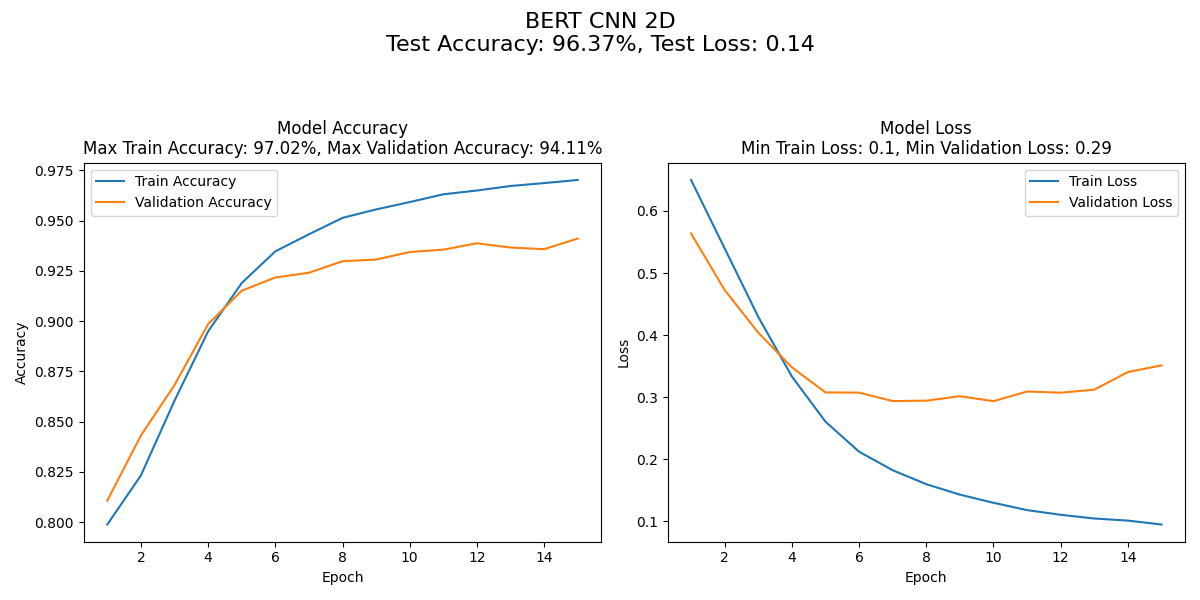
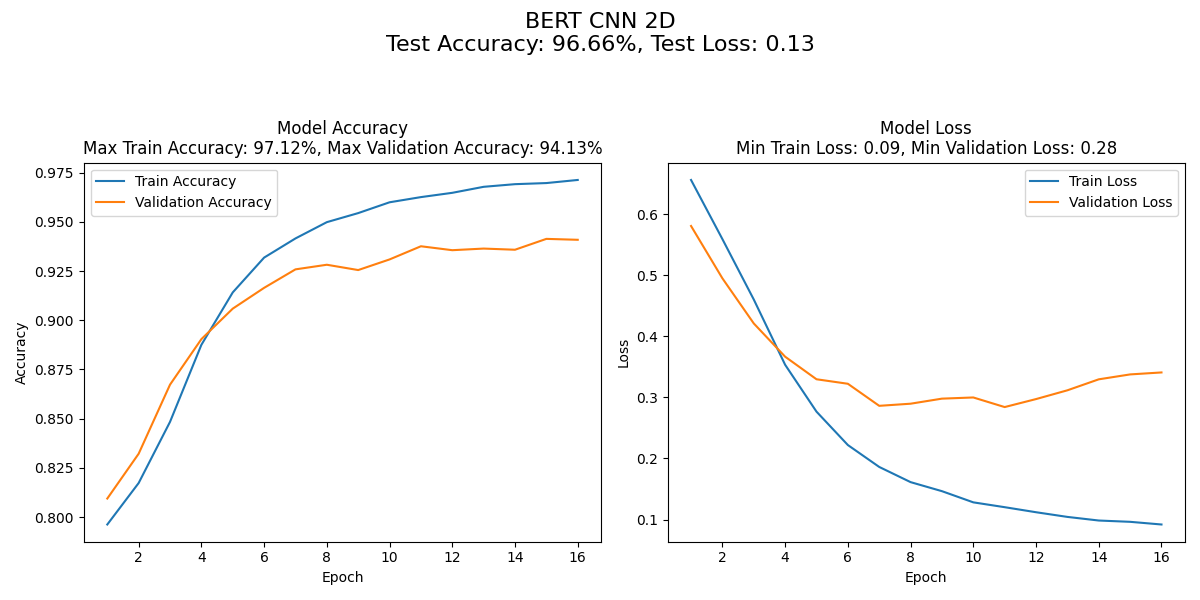
adding new results and updating process_tensorboard_log to support f1 metrics

diff --git a/utils/process_tensorboard_log.py b/utils/process_tensorboard_log.py
@@ -1,4 +1,5 @@
 import os
+import sys
 import traceback
 import pandas as pd
 import matplotlib.pyplot as plt
@@ -97,17 +98,76 @@ def extract_data(log_path):
 
     train_loss = data.loc[data['metric'] == 'train_loss_epoch']['value']
     train_acc = data.loc[data['metric'] == 'train_acc_epoch']['value']
+    train_f1_macro = data.loc[data['metric'] == 'train_f1_macro_epoch']['value']
+    train_f1_weighted = data.loc[data['metric'] == 'train_f1_weighted_epoch']['value']
+    train_f1_rating_1 = data.loc[data['metric'] == 'train_f1_rating_1_epoch']['value']
+    train_f1_rating_2 = data.loc[data['metric'] == 'train_f1_rating_2_epoch']['value']
+    train_f1_rating_3 = data.loc[data['metric'] == 'train_f1_rating_3_epoch']['value']
+    train_f1_rating_4 = data.loc[data['metric'] == 'train_f1_rating_4_epoch']['value']
+    train_f1_rating_5 = data.loc[data['metric'] == 'train_f1_rating_5_epoch']['value']
+
     val_loss = data.loc[data['metric'] == 'val_loss']['value']
     val_acc = data.loc[data['metric'] == 'val_acc']['value']
+    val_f1_macro = data.loc[data['metric'] == 'val_f1_macro']['value']
+    val_f1_weighted = data.loc[data['metric'] == 'val_f1_weighted']['value']
+    val_f1_rating_1 = data.loc[data['metric'] == 'val_f1_rating_1']['value']
+    val_f1_rating_2 = data.loc[data['metric'] == 'val_f1_rating_2']['value']
+    val_f1_rating_3 = data.loc[data['metric'] == 'val_f1_rating_3']['value']
+    val_f1_rating_4 = data.loc[data['metric'] == 'val_f1_rating_4']['value']
+    val_f1_rating_5 = data.loc[data['metric'] == 'val_f1_rating_5']['value']
+
     test_loss = data.loc[data['metric'] == 'test_loss']['value'][0]
     test_acc = data.loc[data['metric'] == 'test_acc']['value'][0]
+    test_f1_macro = data.loc[data['metric'] == 'test_f1_macro']['value'][0]
+    test_f1_weighted = data.loc[data['metric'] == 'test_f1_weighted']['value'][0]
+    test_f1_rating_1 = data.loc[data['metric'] == 'test_f1_rating_1']['value'][0]
+    test_f1_rating_2 = data.loc[data['metric'] == 'test_f1_rating_2']['value'][0]
+    test_f1_rating_3 = data.loc[data['metric'] == 'test_f1_rating_3']['value'][0]
+    test_f1_rating_4 = data.loc[data['metric'] == 'test_f1_rating_4']['value'][0]
+    test_f1_rating_5 = data.loc[data['metric'] == 'test_f1_rating_5']['value'][0]
 
-    return train_loss, train_acc, val_loss, val_acc, test_loss, test_acc
+    train_data = pd.DataFrame({
+        'train_loss': train_loss,
+        'train_acc': train_acc,
+        'train_f1_macro': train_f1_macro,
+        'train_f1_weighted': train_f1_weighted,
+        'train_f1_rating_1': train_f1_rating_1,
+        'train_f1_rating_2': train_f1_rating_2,
+        'train_f1_rating_3': train_f1_rating_3,
+        'train_f1_rating_4': train_f1_rating_4,
+        'train_f1_rating_5': train_f1_rating_5,
+    })
+
+    val_data = pd.DataFrame({
+        'val_loss': val_loss,
+        'val_acc': val_acc,
+        'val_f1_macro': val_f1_macro,
+        'val_f1_weighted': val_f1_weighted,
+        'val_f1_rating_1': val_f1_rating_1,
+        'val_f1_rating_2': val_f1_rating_2,
+        'val_f1_rating_3': val_f1_rating_3,
+        'val_f1_rating_4': val_f1_rating_4,
+        'val_f1_rating_5': val_f1_rating_5,
+    })
+
+    test_data = {
+        'test_loss': test_loss,
+        'test_acc': test_acc,
+        'test_f1_macro': test_f1_macro,
+        'test_f1_weighted': test_f1_weighted,
+        'test_f1_rating_1': test_f1_rating_1,
+        'test_f1_rating_2': test_f1_rating_2,
+        'test_f1_rating_3': test_f1_rating_3,
+        'test_f1_rating_4': test_f1_rating_4,
+        'test_f1_rating_5': test_f1_rating_5,
+    }
+
+    return train_data, val_data, test_data
 
 def save_comparison_graph(models, graph_name):
     for model in models:
-        train_loss, train_acc, val_loss, val_acc, test_loss, test_acc = extract_data(model['dir'])
-        model.update(train_loss=train_loss, train_acc=train_acc, val_loss=val_loss, val_acc=val_acc, test_loss=test_loss, test_acc=test_acc)
+        train_data, val_data, test_data = extract_data(model['dir'])
+        model.update(train_loss=train_data['train_loss'], train_acc=train_data['train_acc'], val_loss=val_data['val_loss'], val_acc=val_data['val_acc'], test_loss=test_data['test_loss'], test_acc=test_data['test_acc'])
 
     fig, (loss, acc) = plt.subplots(nrows=2, ncols=2, figsize=(14, 12))
     for model in models:
